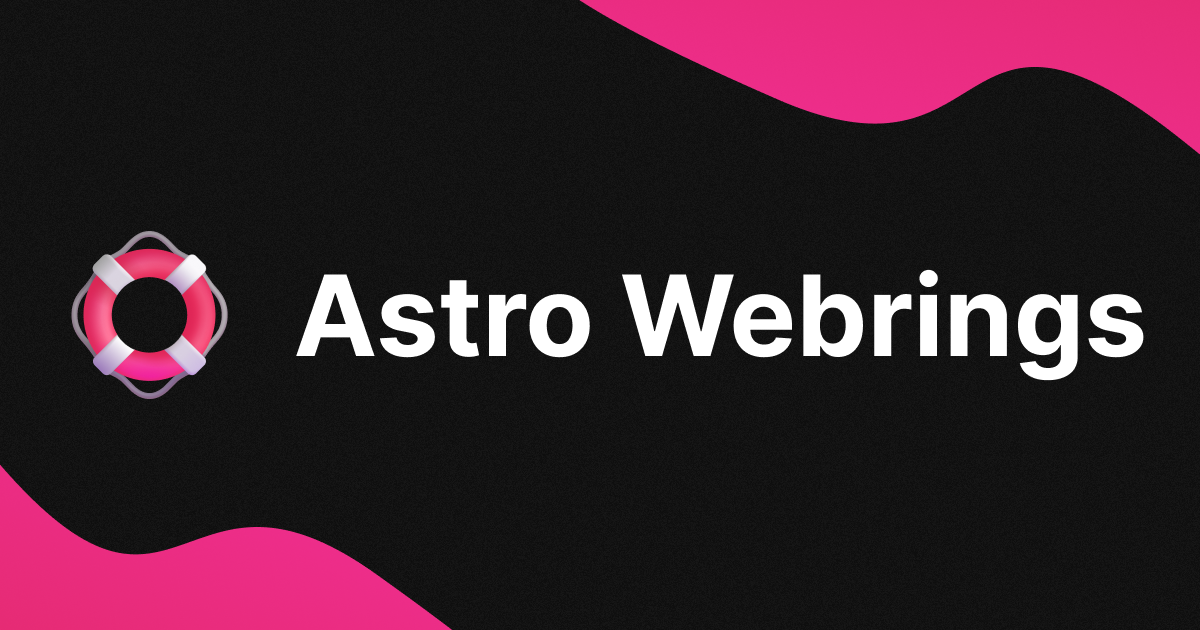
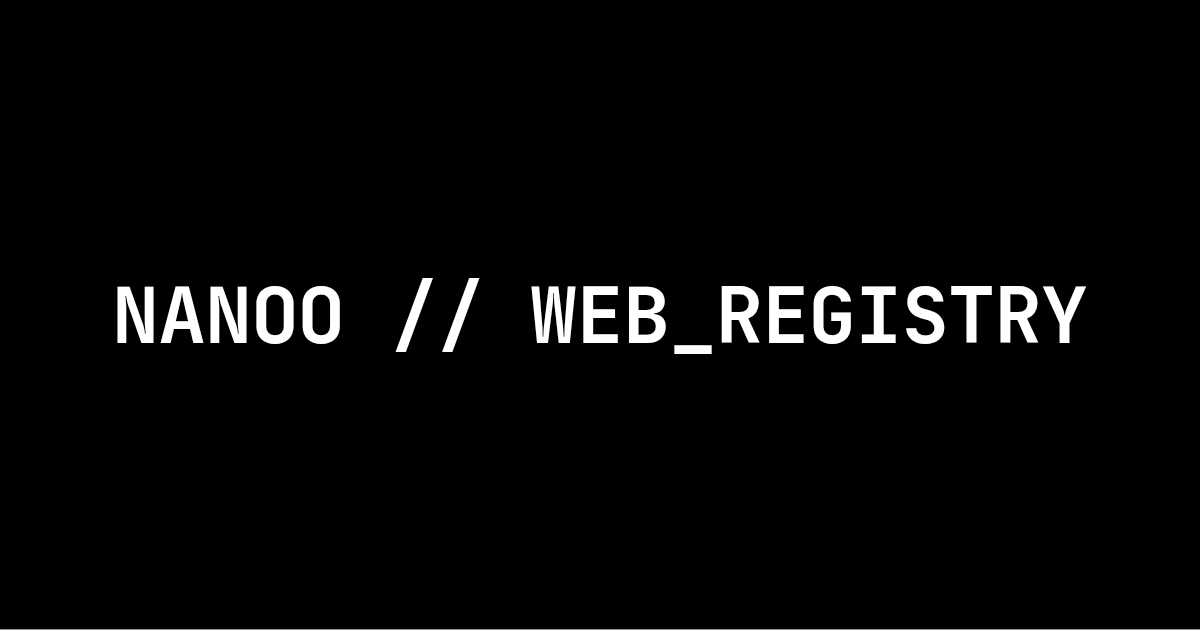
chore: update README and OG image for Naooo branding (Nanoo-fied)

Changed region(s): [[0.0617, 0.3619, 0.9558, 0.6333], [0.0, 0.754, 1.0, 1.0], [0.4933, 0.0, 1.0, 0.2413]]

diff --git a/README.md b/README.md
@@ -1,85 +1,38 @@
-![A buoy besides the text "Astro Webrings" in big, white letters, with some pink decoration in the corners.](https://raw.githubusercontent.com/louisescher/astro-webrings/refs/heads/master/packages/web/public/og.png)
+![NANOO // WEB_REGISTRY](./public/og.png)
 
-# 🛟 Astro Webrings
+# Nanoo Webrings
 
-Add your site to an Astro webring!
+Official network registry and webring for the Nanoo.
 
 ## What is this?
 
-A webring, [according to Wikipedia](https://en.wikipedia.org/wiki/Webring), is a collection of websites linked together in a circular structure, usually organized around a specific theme, and often educational or social. This one is about [Astro](https://astro.build)!
+A webring is a collection of websites linked together in a circular structure. This registry manages the nodes within the [Nanoo](https://nanoolabs.dev).
 
-## Great! How do I join?
+## How to join?
 
-Start by making a pull request on this repository to add your site. You will need to create a file in the `packages/web/src/content/rings/RING_YOU_WANT_TO_JOIN` directory,
-preferrably using the origin of your site as the filename: `example.com.json`
-
-Inside of this file, place the following information:
-
+1. **Create Data:** Create a JSON file in `src/content/rings/built-with-astro/` (or your ring name).
+2. **Format:**
 ```json
 {
-  "name": "Example Site",
-  "id": "a-unique-id",
-  "url": "https://example.com"
+  "name": "Your Site Name",
+  "id": "your-unique-id",
+  "url": "https://your-site.com"
 }
 ```
+3. **Submit PR:** Push to this repository.
 
-The `name` can be anything you want it to be. The `id` should be a unique identifier for your site and should only contain lowercase letters from a-z, numbers, dots, hyphens and underscores. The `url` should be the URL to your site! This is where people will get linked to.
+## Redirect Endpoints
 
-Once your pull request is approved, you should install the [`astro-webrings`](https://www.npmjs.com/package/astro-webrings) package, which allows you to add a badge for the ring to your site. Start by installing the package from the NPM:
-
-```bash
-# npm
-npm install astro-webrings
-
-# pnpm
-pnpm add astro-webrings
-
-# yarn
-yarn add astro-webrings
-```
-
-After installing, you can import and use the badge like this:
-
-```jsx
----
-import WebringBadge from "astro-webrings/badge";
----
-<WebringBadge site="example.com" ring="friends-of-houston" />
-```
-
-Remember to swap out the `site` and `ring` props to the `id` you chose when submitting your PR, and the `ring` you want to link to.
-
-Additionally, if there is an animated image for the ring you want to link to, you can use the `animated` prop:
-
-```jsx
-<WebringBadge site="example.com" ring="friends-of-houston" animated />
-```
-
-Once the badge or an equivalent link has been added, your PR will be merged. Welcome on the ring!
-
-### Custom Badges
-
-In case you want to make a custom badge, or manually link to the next site on the ring, you can use the following links. If you're making a custom badge, consider linking to the previous site as well!
+You can manually link to the next or previous site using these endpoint:
 
 | Description   | Link                                                                  |
 | ------------- | --------------------------------------------------------------------- |
-| Next Site     | `https://astro-webrings.lou.gg/next?site=YOUR_SITE_ID&ring=RING_NAME` |
-| Previous Site | `https://astro-webrings.lou.gg/prev?site=YOUR_SITE_ID&ring=RING_NAME` |
+| Next Site     | `https://webrings.nanoolabs.dev/next?site=YOUR_SITE_ID&ring=RING_NAME` |
+| Previous Site | `https://webrings.nanoolabs.dev/prev?site=YOUR_SITE_ID&ring=RING_NAME` |
 
-### Overriding the Image
+## Sovereign Engineering
 
-If you want to use a different image, you can use the `imageOverride` prop on the component to pass in either the URL of an image (local or remote) or an imported `ImageMetadata` object:
+Part of the Nanoo Labs ecosystems. Built fo be fast, simple, and scalable.
 
-```jsx
 ---
-import WebringBadge from "astro-webrings/badge";
-import MyCustomBadge from "./my-custom-badge.png";
----
-<WebringBadge site="example.com" ring="friends-of-houston" imageOverride={MyCustomBadge} />
-<WebringBadge site="example.com" ring="friends-of-houston" imageOverride={"/path/inside/public/to/my-custom-badge.png"} />
-<WebringBadge site="example.com" ring="friends-of-houston" imageOverride={"https://example.com/my-custom-badge.png"} />
-```
-
-## Available Webrings
-
-A list of all webrings is available [on the webpage](https://astro-webrings.lou.gg/#available-webrings)!
+2026 [NANOO LABS](https://nanoolabs.dev)